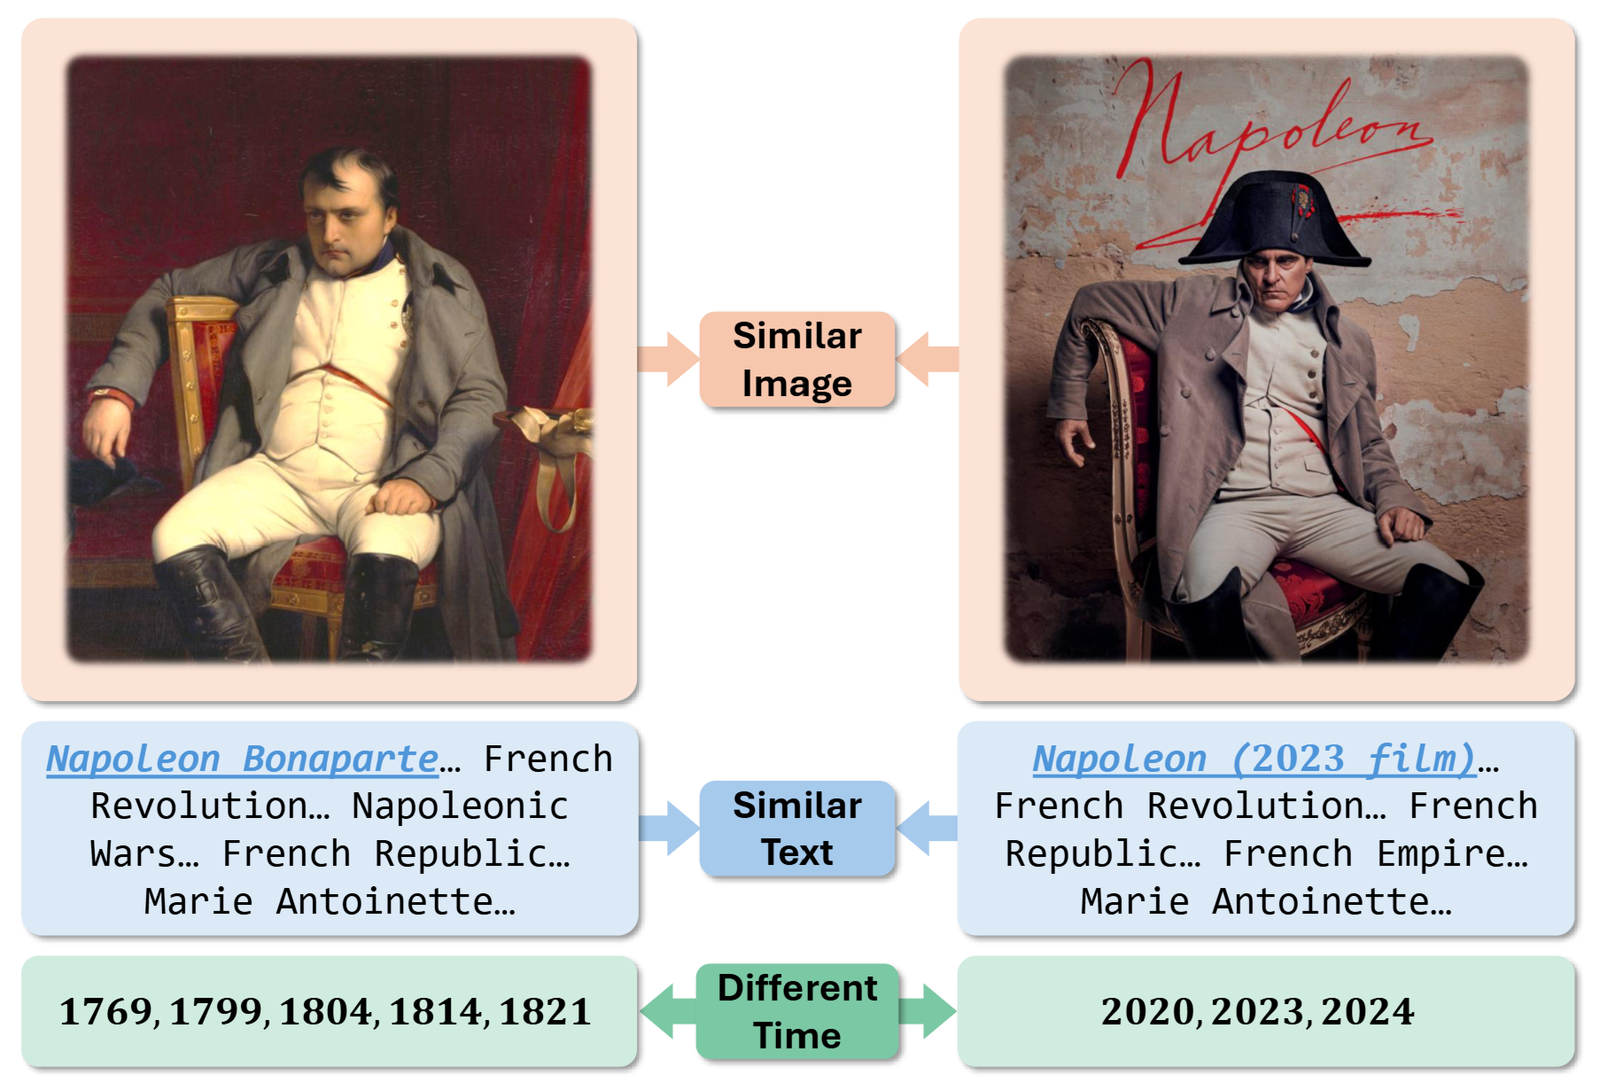
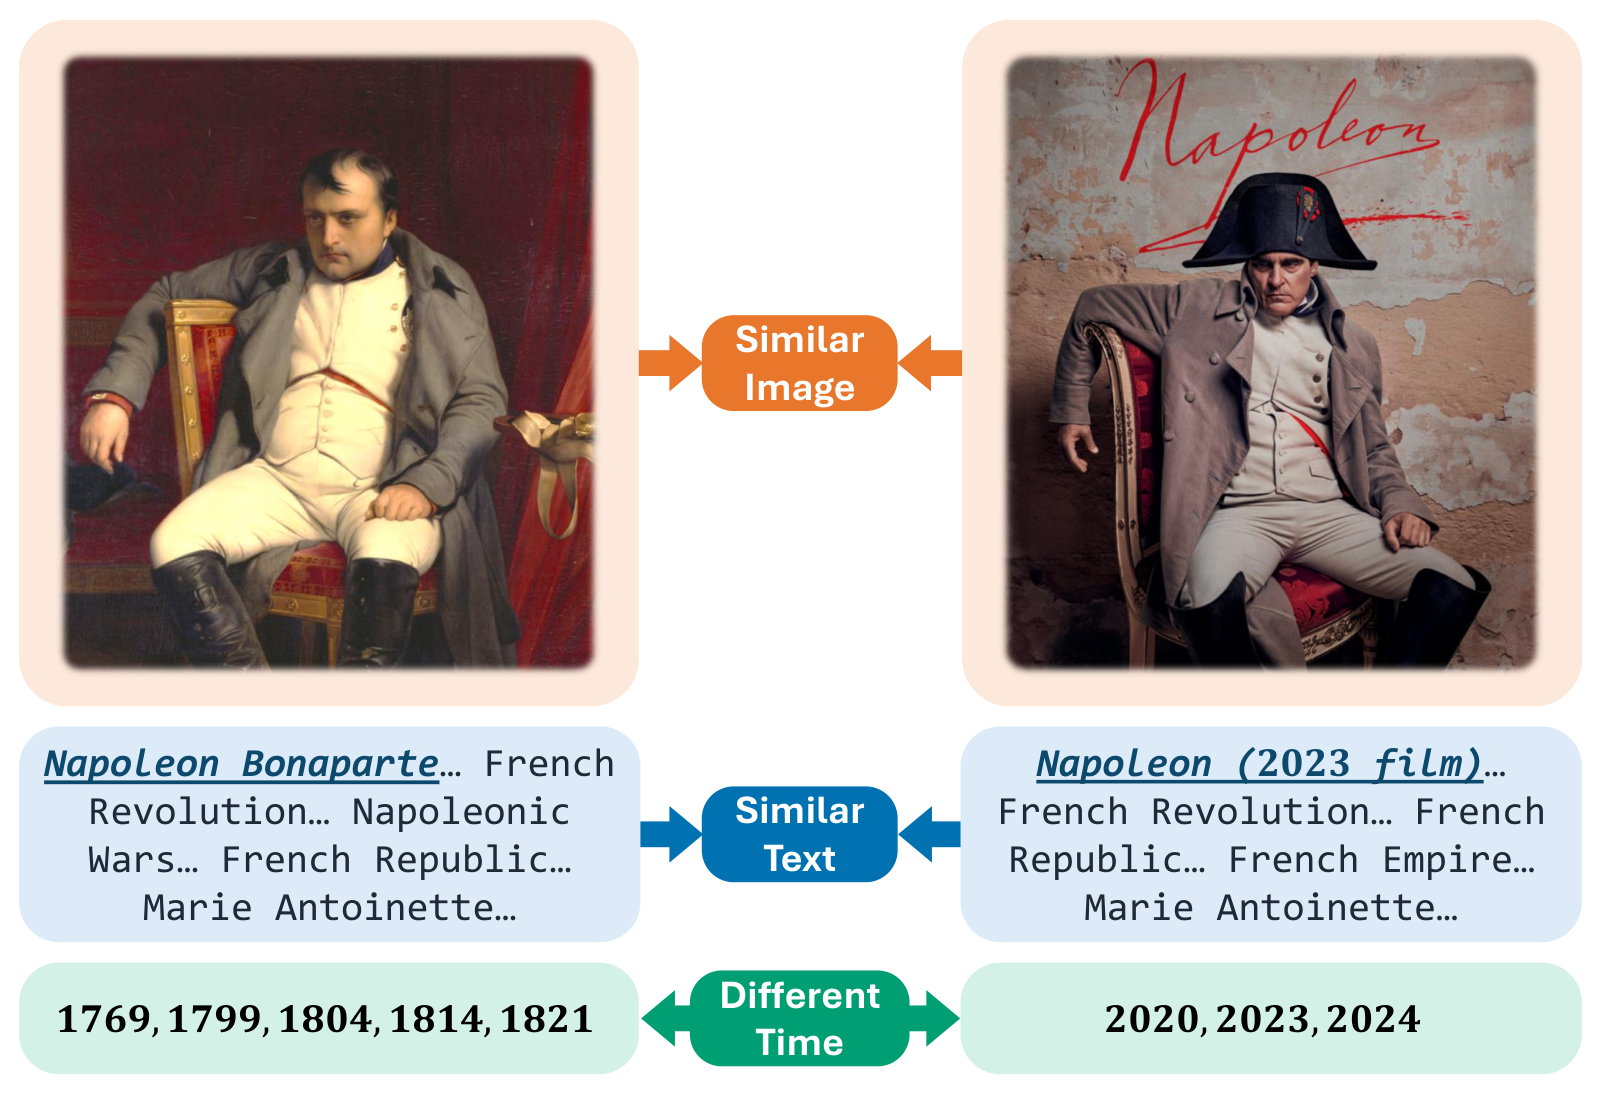
Experience: update TimeRoute and Time Imprint thumbnails from the thesis
Replace the two motivation figures with the redrawn versions from the PhD
thesis (Figures 3.1 and 5.1), rendered from the vector pages at 1600 px.

diff --git a/_includes/research.md b/_includes/research.md
@@ -1,6 +1,6 @@
 ## Experience
 
-<div class="paper-box"><div class="paper-box-image"><a class="img-zoom" href="/images/timeroute.png"><img src="/images/timeroute.png" alt="TimeRoute" width="1600" height="900"></a></div>
+<div class="paper-box"><div class="paper-box-image"><a class="img-zoom" href="/images/timeroute.png"><img src="/images/timeroute.png" alt="TimeRoute" width="1600" height="908"></a></div>
 <div class="paper-box-text" markdown="1">
 
 **TimeRoute** ``Under review``
@@ -15,7 +15,7 @@ Which modality matters for a purchase shifts over time, and differently for each
 </div>
 </div>
 
-<div class="paper-box"><div class="paper-box-image"><a class="img-zoom" href="/images/time_imprint.png"><img src="/images/time_imprint.png" alt="Time Imprint" width="1600" height="1090" loading="lazy"></a></div>
+<div class="paper-box"><div class="paper-box-image"><a class="img-zoom" href="/images/time_imprint.png"><img src="/images/time_imprint.png" alt="Time Imprint" width="1600" height="1094" loading="lazy"></a></div>
 <div class="paper-box-text" markdown="1">
 
 **Time Imprint** ``Under review``
